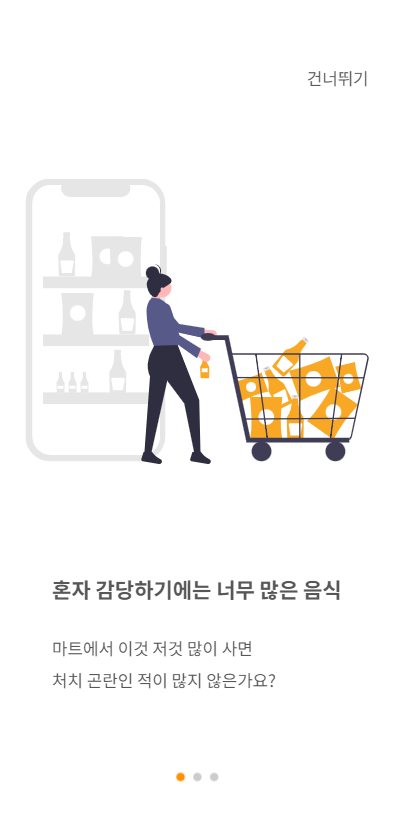
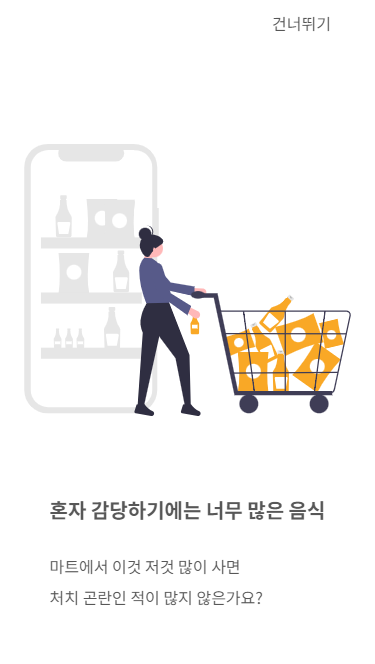
style: cookshare 내용

diff --git a/pages/cookshare.html b/pages/cookshare.html
@@ -78,7 +78,7 @@
             <article>
                 <div class="content">
                     <figure>
-                        <img src="../images/img.jpg">
+                        <img src="../images/mockup_cs3.png">
                     </figure>
                     <p class="desc">cookshare keyvisual</p>
                 </div>
@@ -117,7 +117,7 @@
                             <li>
                                 <div class="image-box">
                                     <div class="image">
-                                        <img src="../images/img_cs2.png">
+                                        <img src="../images/crud.gif">
                                     </div>
                                 </div>
                                 <p class="desc">2. main page - crud</p>
@@ -125,7 +125,7 @@
                             <li>
                                 <div class="image-box">
                                     <div class="image">
-                                        <img src="../images/img_cs6_01.png">
+                                        <img src="../images/login.gif">
                                     </div>
                                 </div>
                                 <p class="desc">3. login page</p>
@@ -234,16 +234,19 @@
                 <div class="content">
                     <div class="intention">
                         <p class="desc">
-                            사용자가 서비스를 쉽게 이해시키고 회원가입을 유도하는 온보딩 페이지를 일러스트 이미지와 Swiper 기능을 활용하여 동적으로 구현했습니다.
-                            회원가입 시 사용자 입력의 디바운싱 처리를 통해 서버 요청을 최소화, Debounce 커스텀 훅을 적용하여 별도의 로직 작성 없이 효율적이고 일관된 방식으로 개발을 진행,
-                            카카오 지도 API를 활용하여 사용자의 키워드 입력에 따라 반응하는 지도 검색 기능을 구현, 입력 상태가 디바운싱을 통해 최적화되도록 설계하여 사용자의 경험을 개선했습니다.
+                            Debounce 커스텀 훅을 적용하여 별도의 로직 작성 없이 효율적이고 일관된 방식으로 효율적이고 일관된 방식으로 개발을 진행했습니다.
+                            <br/>
+                            1. 회원가입 시 사용자 입력을 디바운싱 처리하여 서버 요청을 최소화했습니다.<br/>
+                            2. 카카오 지도 API를 활용하여 사용자의 키워드 입력에 따라 반응하는 지도 검색 기능을 구현,
+                            입력 상태가 디바운싱을 통해 최적화되도록 설계하여 사용자의 경험을 개선했습니다.
                         </p>
                     </div>
-                    <div class="images">
-                        <figure>
-                            <img src="../images/img.jpg">
+                    <div class="images cookshare">
+                        <figure class="flex-box">
+                            <img src="../images/debounce1.gif">
+                            <img src="../images/debounce2.gif">
                         </figure>
-                        <p class="desc">image</p>
+                        <p class="desc">왼쪽 - 회원가입 페이지 , 오른쪽 - 지도 검색 기능</p>
                     </div>
                 </div>
             </article>
@@ -263,11 +266,11 @@
                             또한, Axios를 사용하여 서버 연동한 데이터를 Redux Toolkit의 createSlice 함수를 활용하연 게시판 기능의 상태 관리를 간소화시켜 유지보수성이 용이하도록 향상시켰습니다.
                         </p>
                     </div>
-                    <div class="images">
+                    <div class="images cookshare">
                         <figure>
-                            <img src="../images/img.jpg">
+                            <img src="../images/dir.png">
                         </figure>
-                        <p class="desc">image</p>
+                        <p class="desc">디렉토리 구조</p>
                     </div>
                 </div>
             </article>

diff --git a/pages/keybank.html b/pages/keybank.html
@@ -64,7 +64,7 @@
                                 <img src="../images/keybankthumnail.png">
                             </figure>
 <!--                            <p>visit website(<span class="arrows"><span class="arrow">↗</span><span class="arrow">↗</span></span>)</p>-->
-                            <p>모바일 앱을 설치하여 실제 운영되는 서비스를 볼 수 있습니다</p>
+                            <p>앱을 설치하여 운영되는 서비스를 볼 수 있습니다</p>
                         </a>
                     </div>
                 </div>
@@ -87,11 +87,11 @@
                         <div class="desc">
                             <div>
                                 <p class="tit">1. 메인페이지</p>
-                                <p class="txt">대출 만기일을 한눈에 볼 수 있도록 볼드와 하이라이트 처리를 했으며, 뱃지와 프로그래스 바를 통해 눈에 잘 볼 수 있도록 작업했습니다.</p>
+                                <p class="txt">대출 만기일을 한눈에 볼 수 있도록 볼드와 하이라이트 처리를 했으며, badge와 progress bar를 통해 눈에 잘 볼 수 있도록 작업했습니다.</p>
                             </div>
                             <div>
                                 <p class="tit">2. 상품 페이지</p>
-                                <p class="txt">카드형식으로 상품들을 만들어 한눈에 정보를 볼 수 있고, 쉽게 원하는 페이지로 이동할 수 있게 구축했습니다.</p>
+                                <p class="txt">카드형식으로 상품들을 만들어 한눈에 정보를 보고, 쉽게 원하는 페이지로 이동할 수 있게 구축했습니다.</p>
                             </div>
                             <div>
                                 <p class="tit">3. 상품 상세페이지</p>

diff --git a/css/style.css b/css/style.css
@@ -284,7 +284,7 @@ button {
   display: block;
   margin-top: 0.5rem;
   padding: 0 1rem;
-  font-size: 1.5rem;
+  font-size: 1.25rem;
   text-transform: uppercase;
 }
 .project-main .showing article .content figure {
@@ -627,6 +627,22 @@ button {
   text-transform: uppercase;
 }
 .project-main .showing05 article .content .images .desc.component {
+  padding: 0 4rem;
+}
+.project-main .showing05 article .content .images.cookshare figure {
+  padding: 0 4rem;
+}
+.project-main .showing05 article .content .images.cookshare figure img {
+  width: 50vw;
+}
+.project-main .showing05 article .content .images.cookshare figure.flex-box {
+  display: flex;
+  gap: 1em;
+}
+.project-main .showing05 article .content .images.cookshare figure.flex-box img {
+  width: 20vw;
+}
+.project-main .showing05 article .content .images.cookshare .desc {
   padding: 0 4rem;
 }
 .project-main .showing06 article {

diff --git a/scss/project.scss b/scss/project.scss
@@ -210,7 +210,7 @@
           display: block;
           margin-top: .5rem;
           padding: 0 1rem;
-          font-size: 1.5rem;
+          font-size: 1.25rem;
           text-transform: uppercase;
         }
 
@@ -653,6 +653,26 @@
             text-transform: uppercase;
 
             &.component{
+              padding: 0 4rem;
+            }
+          }
+
+          &.cookshare{
+            figure{
+            padding: 0 4rem;
+              img{
+                width: 50vw;
+              }
+
+              &.flex-box{
+                display: flex;
+                gap: 1em;
+                img{
+                  width: 20vw;
+                }
+              }
+            }
+            .desc{
               padding: 0 4rem;
             }
           }
